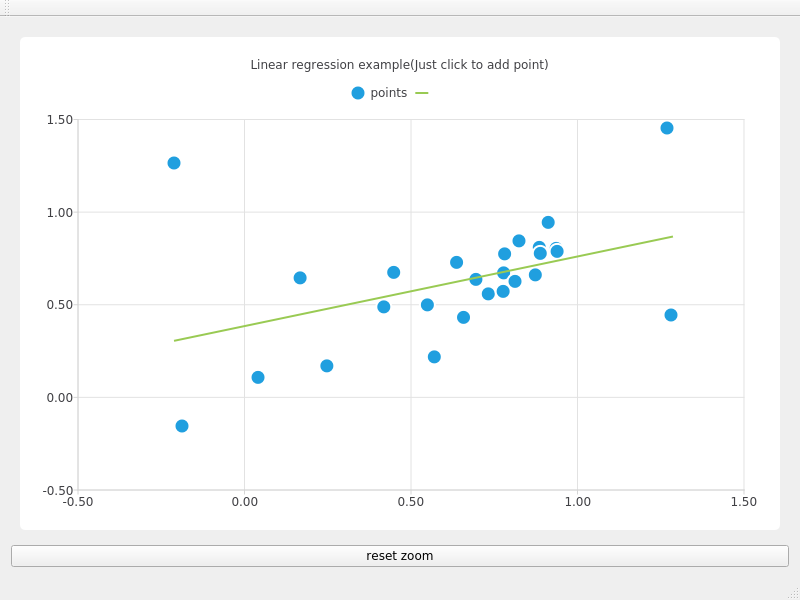
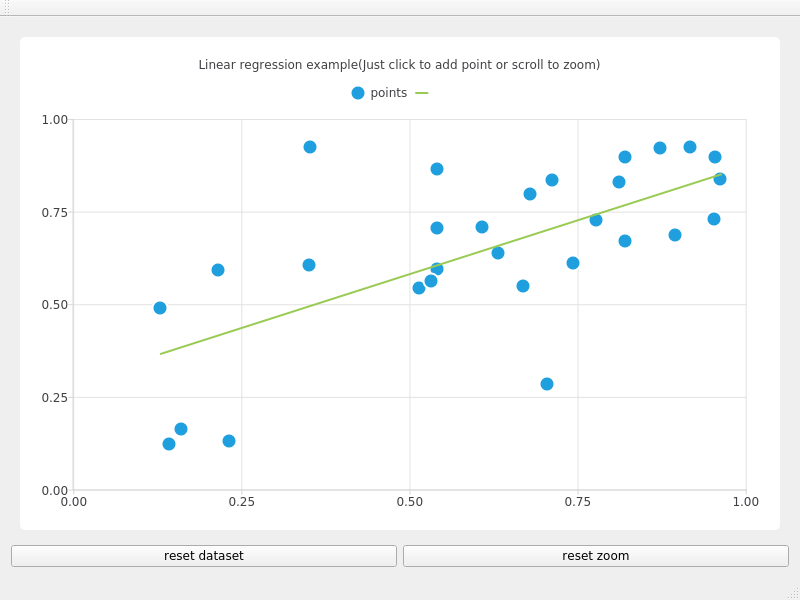
ability to reset dataset

diff --git a/chartview.cpp b/chartview.cpp
@@ -27,7 +27,7 @@ ChartView::ChartView(QWidget* parent)
     chart()->addSeries(series);
     chart()->addSeries(series2);
 
-    chart()->setTitle("Linear regression example(Just click to add point)");
+    chart()->setTitle("Linear regression example(Just click to add point or scroll to zoom)");
     chart()->createDefaultAxes();
     chart()->setDropShadowEnabled(false);
 
@@ -37,6 +37,13 @@ ChartView::ChartView(QWidget* parent)
 void ChartView::resetZoom()
 {
     chart()->zoomReset();
+}
+
+void ChartView::resetDataset()
+{
+    points.clear();
+    series->clear();
+    series2->clear();
 }
 
 void ChartView::wheelEvent(QWheelEvent* event)

diff --git a/mainwindow.cpp b/mainwindow.cpp
@@ -10,6 +10,9 @@ MainWindow::MainWindow(QWidget* parent)
     connect(
         ui->resetZoomButton, &QPushButton::clicked,
         ui->chartView, &ChartView::resetZoom);
+    connect(
+        ui->resetDatasetButton, &QPushButton::clicked,
+        ui->chartView, &ChartView::resetDataset);
 }
 
 MainWindow::~MainWindow()

diff --git a/chartview.h b/chartview.h
@@ -15,6 +15,7 @@ signals:
 
 public slots:
     void resetZoom();
+    void resetDataset();
 
     // QWidget interface
 protected:

diff --git a/README.md b/README.md
@@ -2,6 +2,7 @@
 
 ![Image 1](https://raw.githubusercontent.com/DevAlone/ml_linear_regression/master/img/1.png)
 ![Image 2](https://raw.githubusercontent.com/DevAlone/ml_linear_regression/master/img/2.png)
+![Image 3](https://raw.githubusercontent.com/DevAlone/ml_linear_regression/master/img/3.png)
 
 To learn about algorithm go here: 
 [https://www.coursera.org/learn/machine-learning/home/welcome](https://www.coursera.org/learn/machine-learning/home/welcome)
